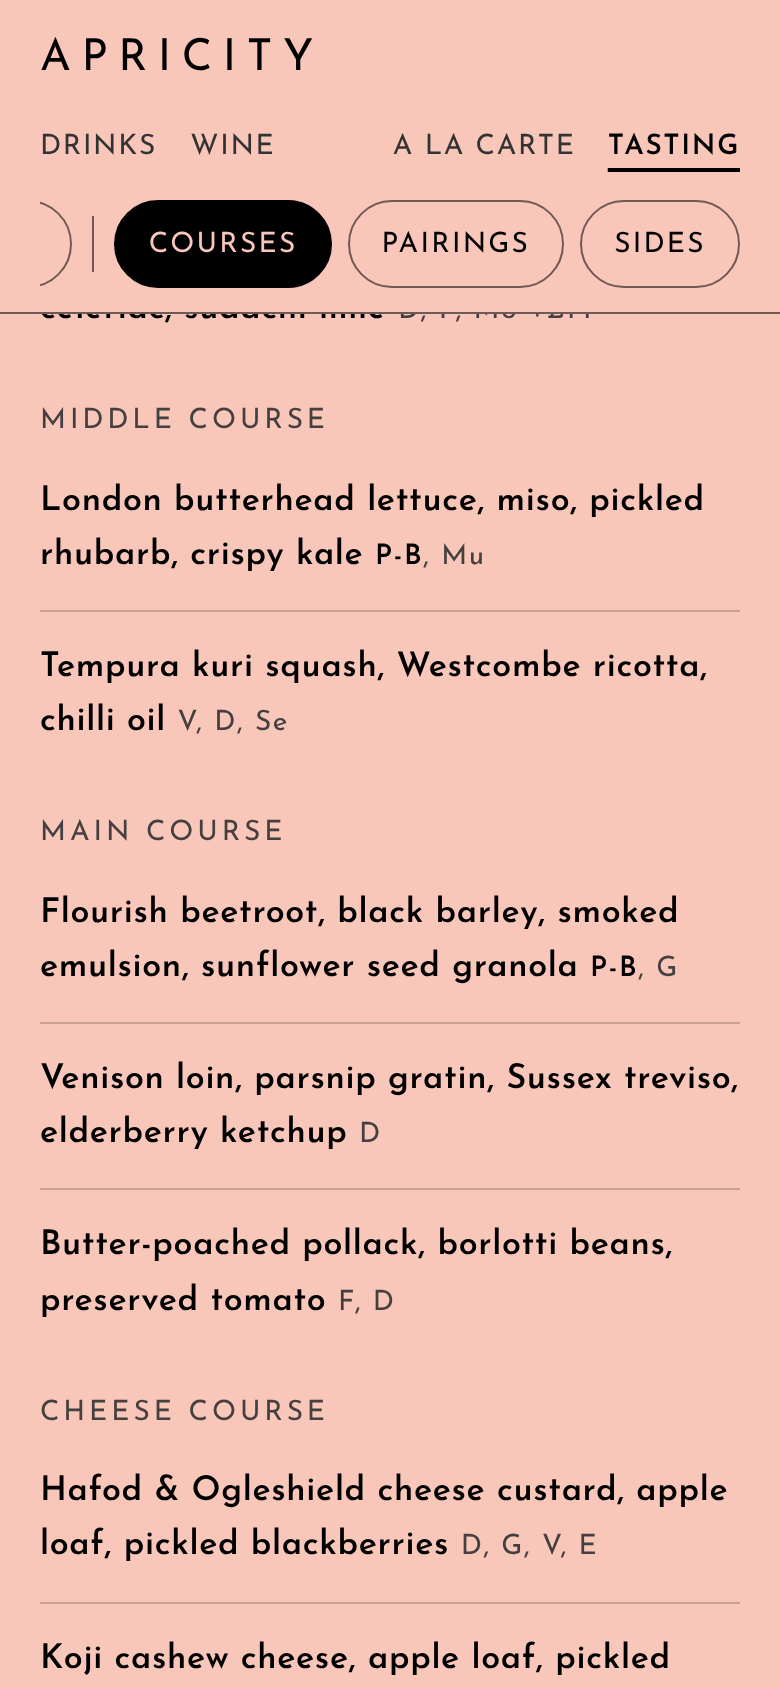
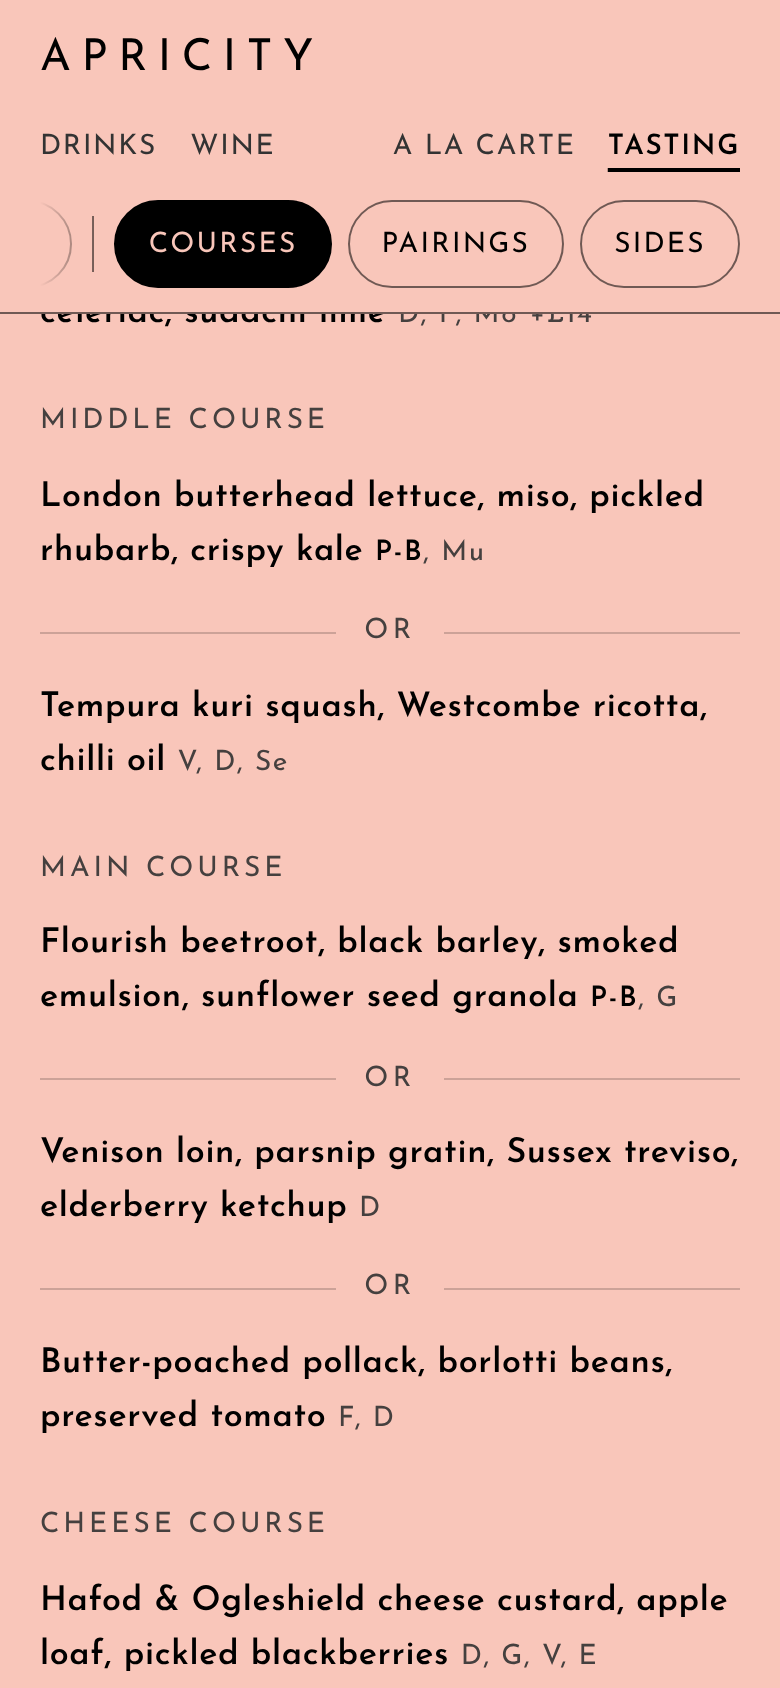
Tasting menus: put 'or' between each course's dishes
A centred 'or' with a rule either side now separates the dishes of each
tasting course, so it's clear a choice is needed. It's real text, so
screen readers say it too. Courses with one dish (and the plant-based
view) show no 'or'. Tasting screenshots and boards refreshed.

Claude-Session: https://claude.ai/code/session_01GSSoGmMPpnkgwBsug1j8uu

diff --git a/chefs-table.html b/chefs-table.html
@@ -168,8 +168,13 @@ main:focus { outline: none; }
 .seg button[aria-pressed="true"] { background: var(--ink); color: var(--page); }
 .seg button[aria-pressed="true"] small { color: var(--page); }
 .opts { list-style: none; margin: 0; padding: 0; }
-.opts li { padding: 14px 0; border-bottom: 1px solid var(--rule); font-weight: 600; }
-.opts li:last-child { border-bottom: 0; }
+.opts li { padding: 12px 0; font-weight: 600; }
+.opts li + li { padding-top: 4px; }
+.opts .or {
+  display: flex; align-items: center; gap: 14px; margin-bottom: 12px;
+  font-size: 0.875rem; font-weight: 400; letter-spacing: 0.16em; text-transform: uppercase; color: var(--light);
+}
+.opts .or::before, .opts .or::after { content: ""; flex: 1; height: 1px; background: var(--rule); }
 .opts .desc { display: block; color: var(--mid); font-size: 0.9375rem; font-weight: 400; }
 
 /* cross-link between drinks and food */
@@ -490,8 +495,9 @@ details dd { margin: 0; }
           return;
         }
         // A course with one dish (the pre dessert) is served to everyone, so the plant-based filter leaves it alone.
-        courses += '<h3 class="caps">' + esc(g.title) + '</h3><ul class="opts">' + (g.rows.length > 1 ? plantFilter(g.rows) : g.rows).map(function (r) {
-          return "<li>" + esc(r.dish) + codes(r.allergens) + (r.supplement ? ' <span class="codes">+' + esc(money(r.supplement)) + "</span>" : "") + "</li>";
+        courses += '<h3 class="caps">' + esc(g.title) + '</h3><ul class="opts">' + (g.rows.length > 1 ? plantFilter(g.rows) : g.rows).map(function (r, i) {
+          // "or" between a course's dishes makes the choice obvious, and is read out by screen readers too.
+          return "<li>" + (i ? '<span class="or">or </span>' : "") + esc(r.dish) + codes(r.allergens) + (r.supplement ? ' <span class="codes">+' + esc(money(r.supplement)) + "</span>" : "") + "</li>";
         }).join("") + "</ul>";
       });
       var nav = [["courses", "Courses"]];

diff --git a/index.html b/index.html
@@ -168,8 +168,13 @@ main:focus { outline: none; }
 .seg button[aria-pressed="true"] { background: var(--ink); color: var(--page); }
 .seg button[aria-pressed="true"] small { color: var(--page); }
 .opts { list-style: none; margin: 0; padding: 0; }
-.opts li { padding: 14px 0; border-bottom: 1px solid var(--rule); font-weight: 600; }
-.opts li:last-child { border-bottom: 0; }
+.opts li { padding: 12px 0; font-weight: 600; }
+.opts li + li { padding-top: 4px; }
+.opts .or {
+  display: flex; align-items: center; gap: 14px; margin-bottom: 12px;
+  font-size: 0.875rem; font-weight: 400; letter-spacing: 0.16em; text-transform: uppercase; color: var(--light);
+}
+.opts .or::before, .opts .or::after { content: ""; flex: 1; height: 1px; background: var(--rule); }
 .opts .desc { display: block; color: var(--mid); font-size: 0.9375rem; font-weight: 400; }
 
 /* cross-link between drinks and food */
@@ -490,8 +495,9 @@ details dd { margin: 0; }
           return;
         }
         // A course with one dish (the pre dessert) is served to everyone, so the plant-based filter leaves it alone.
-        courses += '<h3 class="caps">' + esc(g.title) + '</h3><ul class="opts">' + (g.rows.length > 1 ? plantFilter(g.rows) : g.rows).map(function (r) {
-          return "<li>" + esc(r.dish) + codes(r.allergens) + (r.supplement ? ' <span class="codes">+' + esc(money(r.supplement)) + "</span>" : "") + "</li>";
+        courses += '<h3 class="caps">' + esc(g.title) + '</h3><ul class="opts">' + (g.rows.length > 1 ? plantFilter(g.rows) : g.rows).map(function (r, i) {
+          // "or" between a course's dishes makes the choice obvious, and is read out by screen readers too.
+          return "<li>" + (i ? '<span class="or">or </span>' : "") + esc(r.dish) + codes(r.allergens) + (r.supplement ? ' <span class="codes">+' + esc(money(r.supplement)) + "</span>" : "") + "</li>";
         }).join("") + "</ul>";
       });
       var nav = [["courses", "Courses"]];

diff --git a/src/chefs-table.html b/src/chefs-table.html
@@ -160,8 +160,13 @@ main:focus { outline: none; }
 .seg button[aria-pressed="true"] { background: var(--ink); color: var(--page); }
 .seg button[aria-pressed="true"] small { color: var(--page); }
 .opts { list-style: none; margin: 0; padding: 0; }
-.opts li { padding: 14px 0; border-bottom: 1px solid var(--rule); font-weight: 600; }
-.opts li:last-child { border-bottom: 0; }
+.opts li { padding: 12px 0; font-weight: 600; }
+.opts li + li { padding-top: 4px; }
+.opts .or {
+  display: flex; align-items: center; gap: 14px; margin-bottom: 12px;
+  font-size: 0.875rem; font-weight: 400; letter-spacing: 0.16em; text-transform: uppercase; color: var(--light);
+}
+.opts .or::before, .opts .or::after { content: ""; flex: 1; height: 1px; background: var(--rule); }
 .opts .desc { display: block; color: var(--mid); font-size: 0.9375rem; font-weight: 400; }
 
 /* cross-link between drinks and food */
@@ -482,8 +487,9 @@ details dd { margin: 0; }
           return;
         }
         // A course with one dish (the pre dessert) is served to everyone, so the plant-based filter leaves it alone.
-        courses += '<h3 class="caps">' + esc(g.title) + '</h3><ul class="opts">' + (g.rows.length > 1 ? plantFilter(g.rows) : g.rows).map(function (r) {
-          return "<li>" + esc(r.dish) + codes(r.allergens) + (r.supplement ? ' <span class="codes">+' + esc(money(r.supplement)) + "</span>" : "") + "</li>";
+        courses += '<h3 class="caps">' + esc(g.title) + '</h3><ul class="opts">' + (g.rows.length > 1 ? plantFilter(g.rows) : g.rows).map(function (r, i) {
+          // "or" between a course's dishes makes the choice obvious, and is read out by screen readers too.
+          return "<li>" + (i ? '<span class="or">or </span>' : "") + esc(r.dish) + codes(r.allergens) + (r.supplement ? ' <span class="codes">+' + esc(money(r.supplement)) + "</span>" : "") + "</li>";
         }).join("") + "</ul>";
       });
       var nav = [["courses", "Courses"]];

diff --git a/src/menu.html b/src/menu.html
@@ -160,8 +160,13 @@ main:focus { outline: none; }
 .seg button[aria-pressed="true"] { background: var(--ink); color: var(--page); }
 .seg button[aria-pressed="true"] small { color: var(--page); }
 .opts { list-style: none; margin: 0; padding: 0; }
-.opts li { padding: 14px 0; border-bottom: 1px solid var(--rule); font-weight: 600; }
-.opts li:last-child { border-bottom: 0; }
+.opts li { padding: 12px 0; font-weight: 600; }
+.opts li + li { padding-top: 4px; }
+.opts .or {
+  display: flex; align-items: center; gap: 14px; margin-bottom: 12px;
+  font-size: 0.875rem; font-weight: 400; letter-spacing: 0.16em; text-transform: uppercase; color: var(--light);
+}
+.opts .or::before, .opts .or::after { content: ""; flex: 1; height: 1px; background: var(--rule); }
 .opts .desc { display: block; color: var(--mid); font-size: 0.9375rem; font-weight: 400; }
 
 /* cross-link between drinks and food */
@@ -482,8 +487,9 @@ details dd { margin: 0; }
           return;
         }
         // A course with one dish (the pre dessert) is served to everyone, so the plant-based filter leaves it alone.
-        courses += '<h3 class="caps">' + esc(g.title) + '</h3><ul class="opts">' + (g.rows.length > 1 ? plantFilter(g.rows) : g.rows).map(function (r) {
-          return "<li>" + esc(r.dish) + codes(r.allergens) + (r.supplement ? ' <span class="codes">+' + esc(money(r.supplement)) + "</span>" : "") + "</li>";
+        courses += '<h3 class="caps">' + esc(g.title) + '</h3><ul class="opts">' + (g.rows.length > 1 ? plantFilter(g.rows) : g.rows).map(function (r, i) {
+          // "or" between a course's dishes makes the choice obvious, and is read out by screen readers too.
+          return "<li>" + (i ? '<span class="or">or </span>' : "") + esc(r.dish) + codes(r.allergens) + (r.supplement ? ' <span class="codes">+' + esc(money(r.supplement)) + "</span>" : "") + "</li>";
         }).join("") + "</ul>";
       });
       var nav = [["courses", "Courses"]];

diff --git a/README.md b/README.md
@@ -19,7 +19,7 @@ The team sees these problems again and again during service.
 | **Losing their place.** Guests find the wine they want, look at the food, then can't find the wine again when it's time to order drinks. | Each menu remembers where the guest was. Switch to the food and back, and the wine list reopens at the same wine (tabs, end-of-list links and the back button all work). Two buttons, *By the glass* and *Bottles*, reach any part of the wine list; *Bottles* opens into a button per style. |
 | **Vegan guests overwhelmed, and unsure what is plant-based.** They scan every dish for a small "P-B" code. On the tasting menu there's often only one dish per course they can have, and that isn't obvious. | A *Plant-based* button hides everything else, on the a la carte and all tasting menus, and the phone remembers it. With it on, each tasting course shows its single plant-based dish, so a vegan guest sees their menu rather than choices they can't have. "P-B" is printed in bold on every dish. |
 | **Older guests struggling to read.** Thin, small, grey lettering, in a softly lit dining room, often without reading glasses. | At least 14px text (main text 17px), never thin, with contrast of at least 6.7:1 (the website: down to 12px, mostly thin, 3.6:1). A *Larger text* button (115% and 132%) on the start page and at the end of every menu, and tap targets of at least 44px. See [`accessibility/`](accessibility/REPORT.md). |
-| **Unsure how many choices to make on the tasting menu.** The website shows the 5- and 7-course menus on one page, in one list, with 7-course-only courses marked "(for 7-courses)" and "*" inside it. Guests have to work out which courses, and how many choices, apply to them. | Guests tap *5 courses*, *7 courses* or *Kids*, and only that menu's courses show, under a heading such as "5-course menu" and "Choose one dish per course". The 7-course extras disappear from the 5-course menu, apart from the cheese course, shown as an £8 add-on. The price, lunch price and pairings change with the choice. |
+| **Unsure how many choices to make on the tasting menu.** The website shows the 5- and 7-course menus on one page, in one list, with 7-course-only courses marked "(for 7-courses)" and "*" inside it. Guests have to work out which courses, and how many choices, apply to them. | Guests tap *5 courses*, *7 courses* or *Kids*, and only that menu's courses show, under a heading such as "5-course menu" and "Choose one dish per course", with an **or** between each course's dishes so it's clear a choice is needed. The 7-course extras disappear from the 5-course menu, apart from the cheese course, shown as an £8 add-on. The price, lunch price and pairings change with the choice. |
 
 The plant-based filter follows the restaurant's own "P-B" codes. Guests with a strict vegan diet or an allergy should still check with their server.
 
